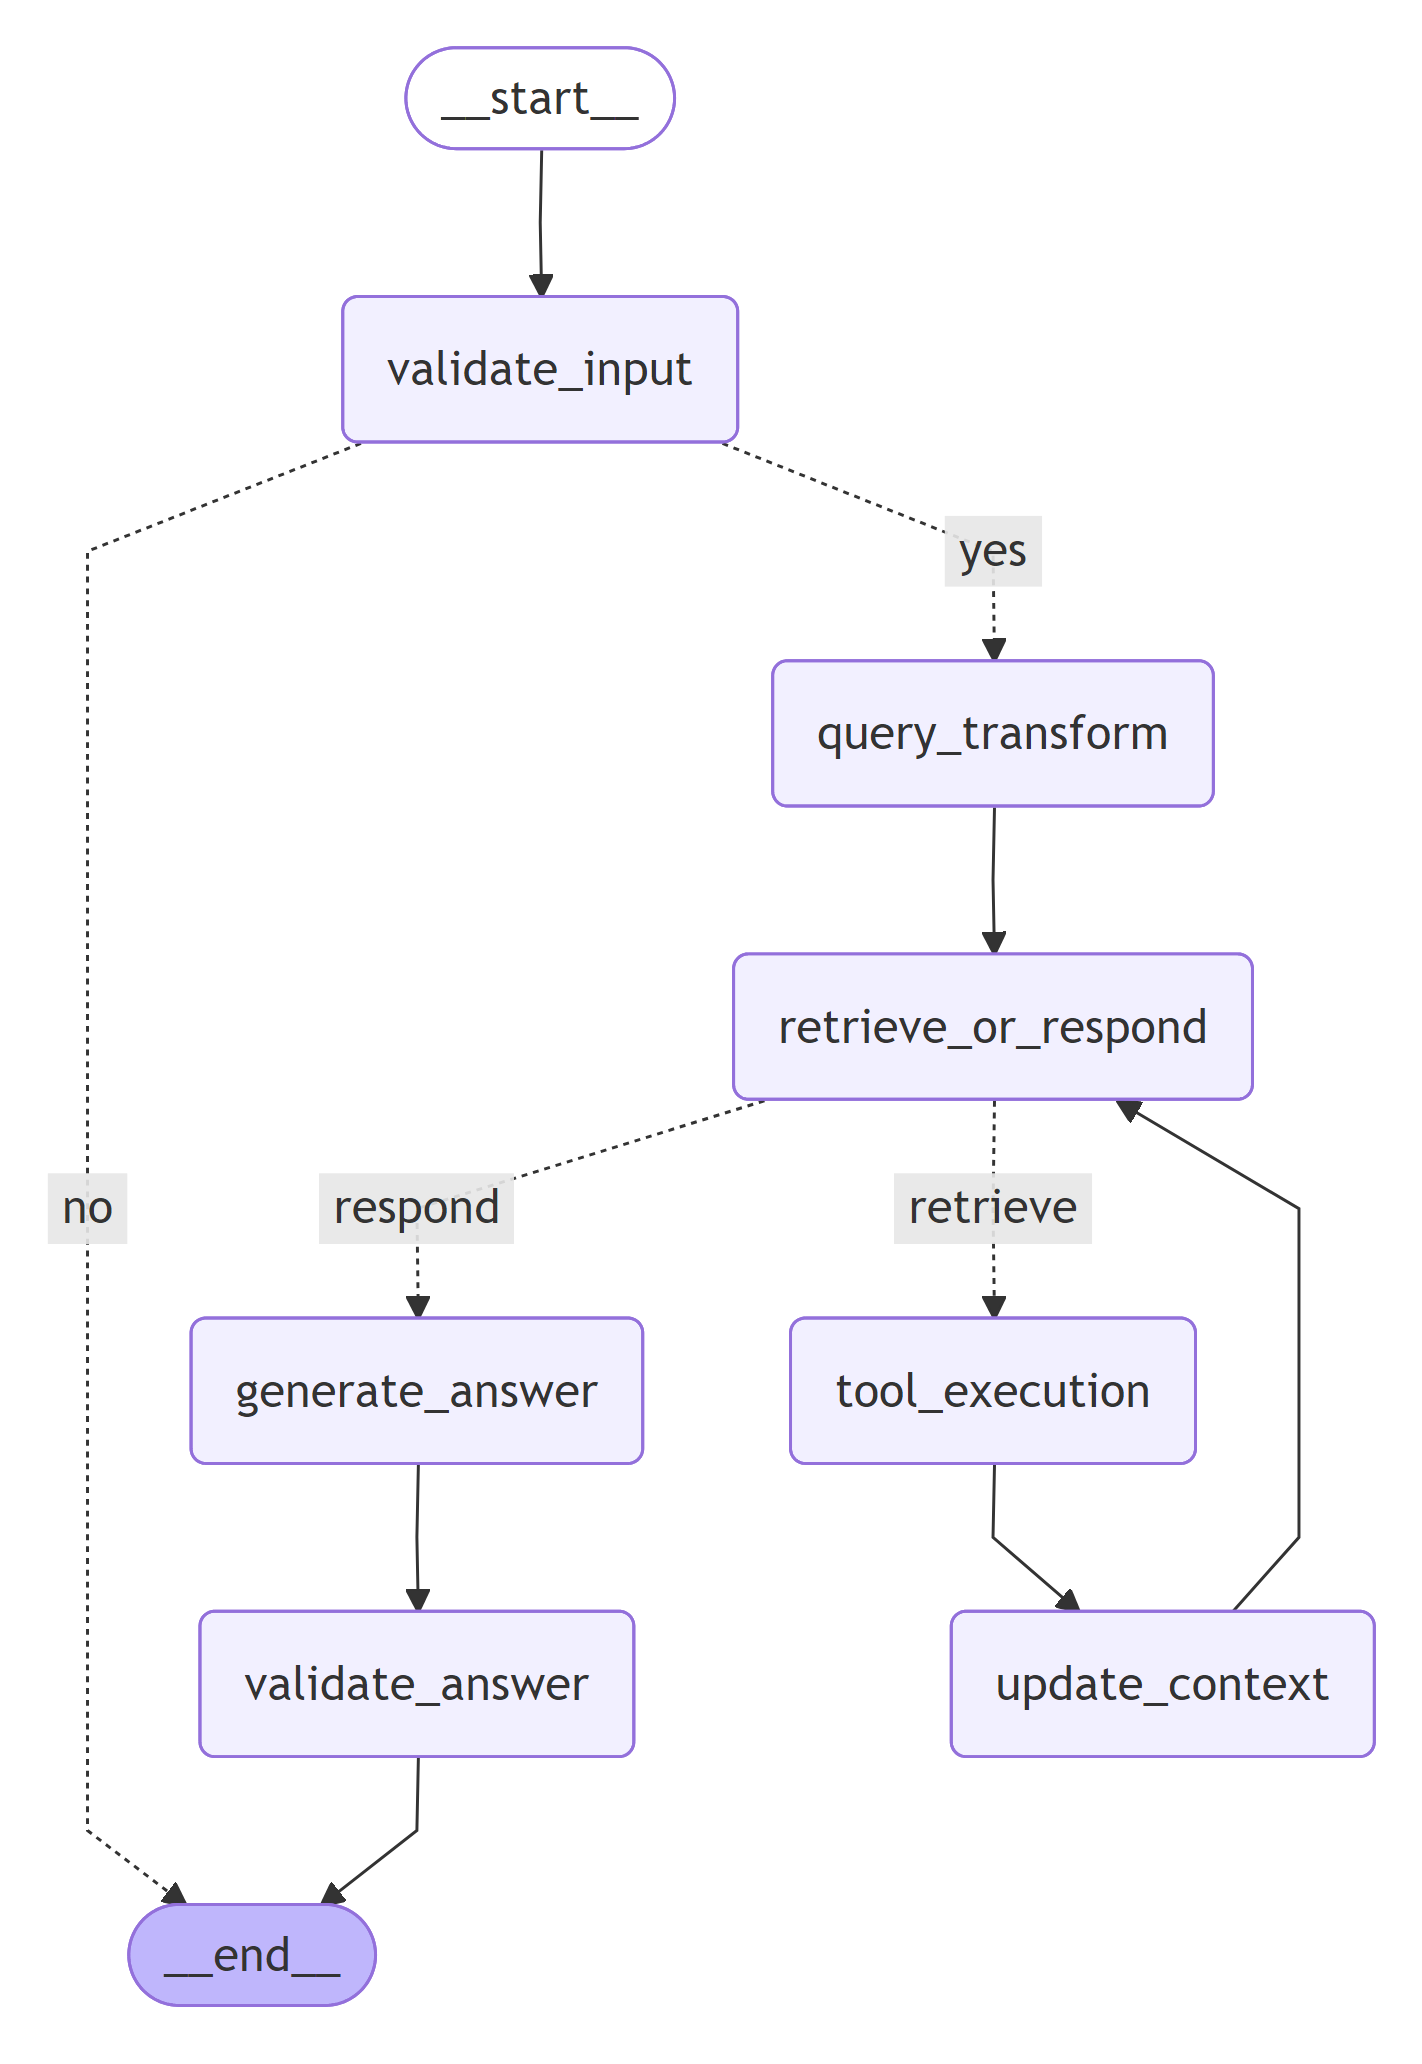
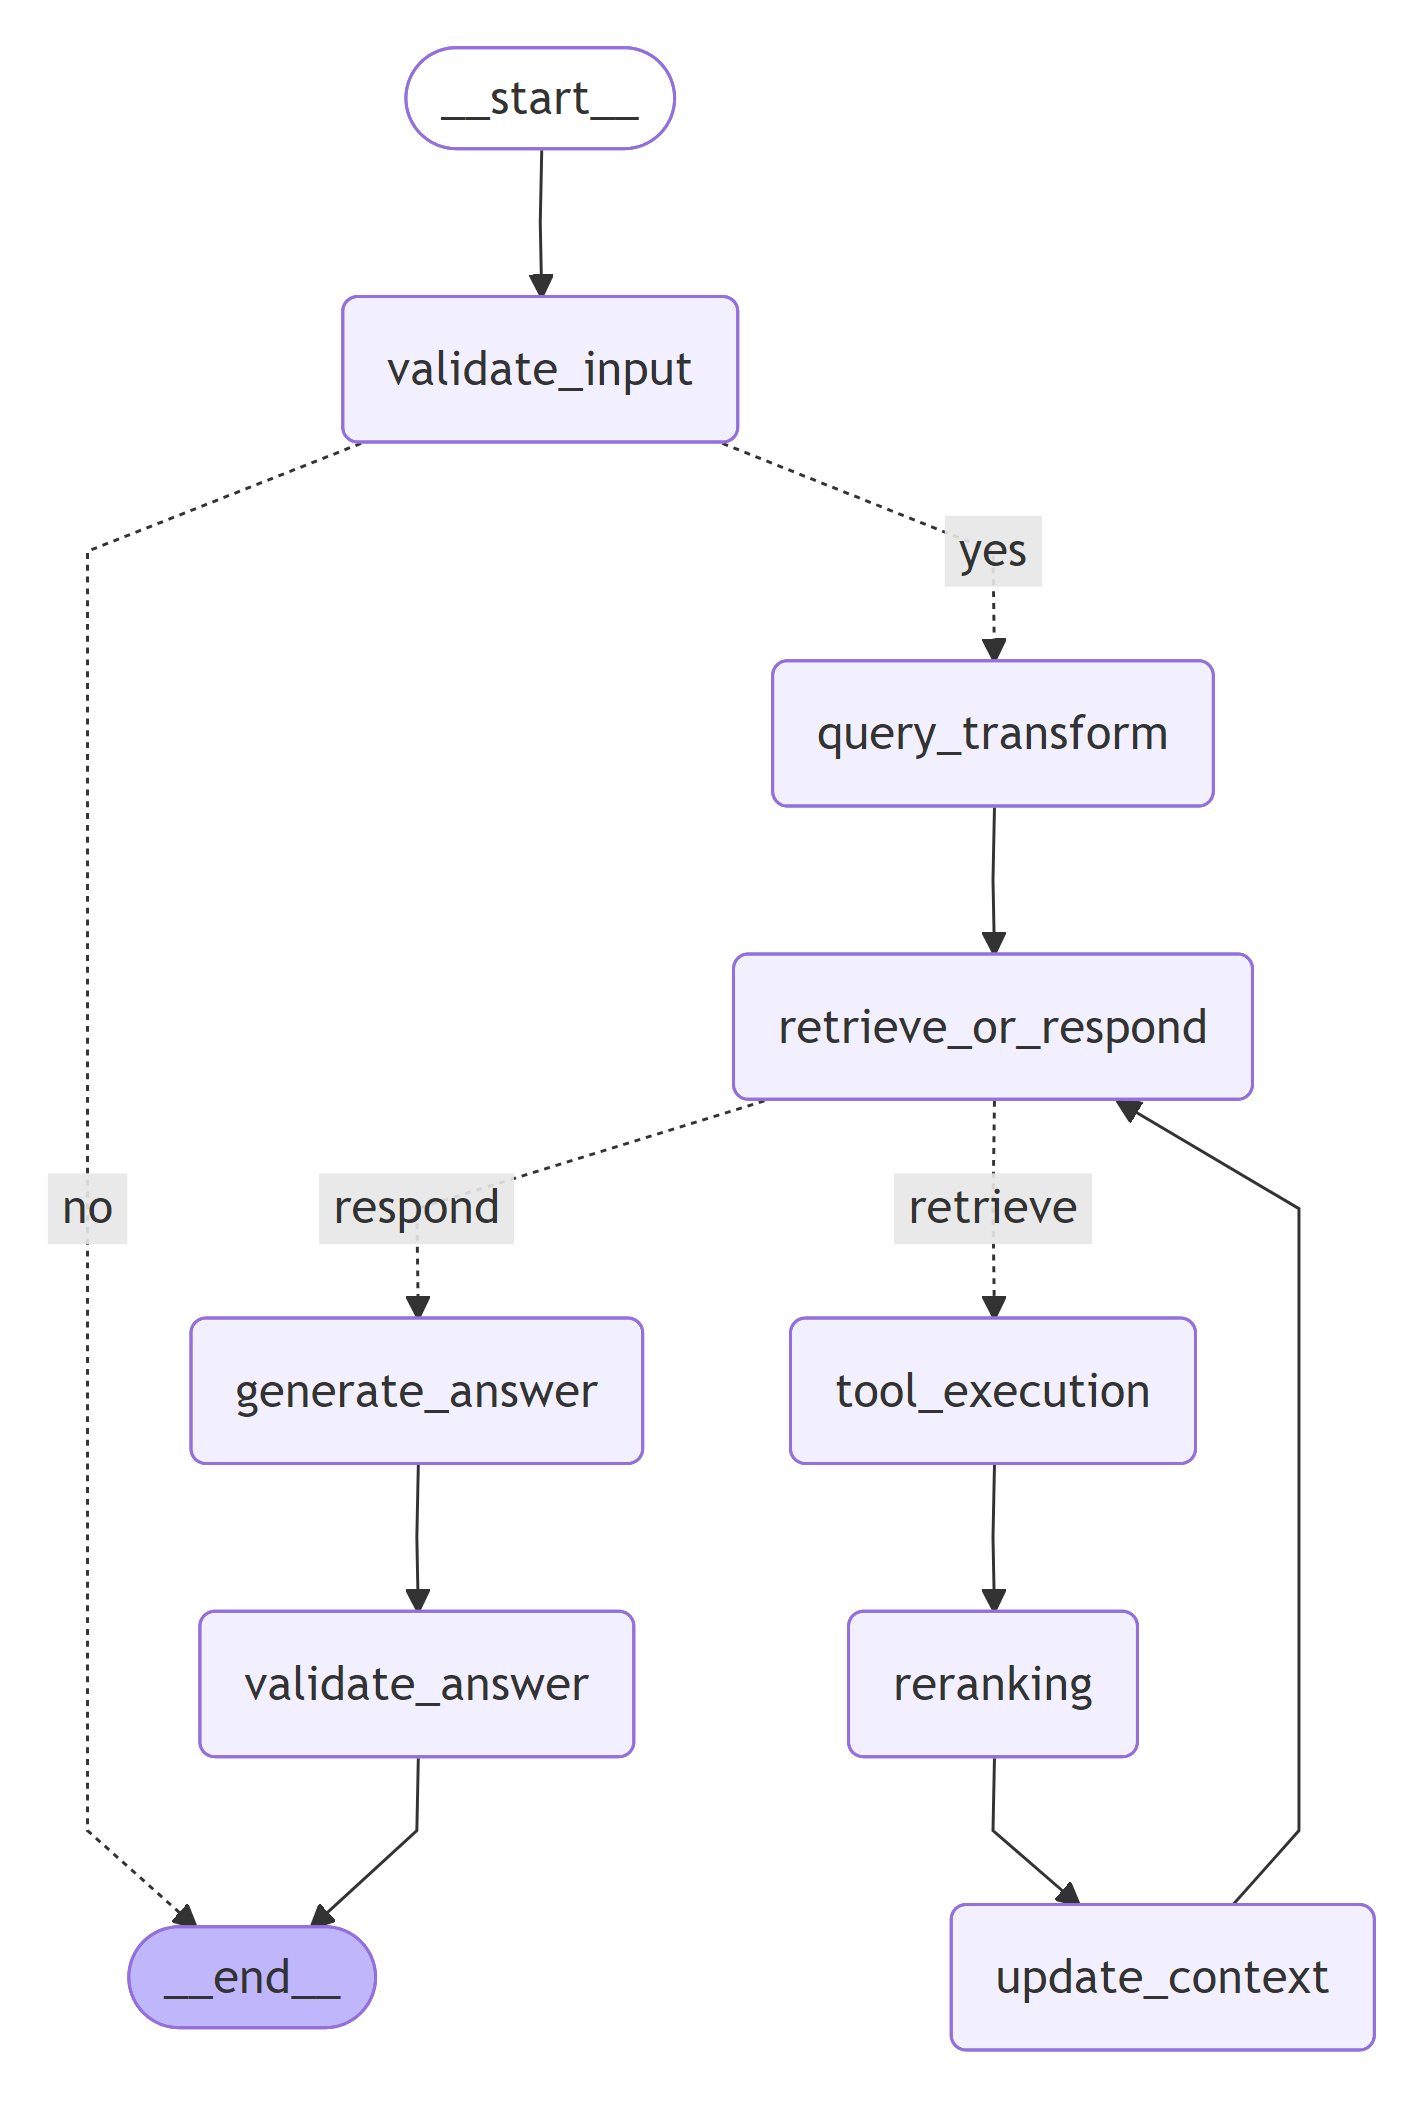
reranking

diff --git a/nodes/reranking.py b/nodes/reranking.py
@@ -1,0 +1,57 @@
+from langchain_core.language_models.chat_models import BaseChatModel
+from pydantic import BaseModel, Field
+from utils.state import AgentState
+from typing import List
+from langchain.prompts import PromptTemplate
+import numpy as np
+from langchain_core.messages import AIMessage
+
+# class Grade(BaseModel):
+#     score: float = Field(description="A score between 0 and 1, that measure how much a chunk is related to a user's question")
+
+class Reranking:
+
+    def __init__(self, llm: BaseChatModel, strategies: List[str], weights: List[float], prompts: dict[str, str]):
+        self._llm = llm
+        self._prompts = prompts
+        self._strategies = strategies
+        self._weights = weights
+
+    def _calculate_semantic_score(self, question: str, chunks: List[str]):
+        scores = []
+        prompt_template = self._prompts.get("reranking")
+        if not prompt_template:
+            raise Exception("Reranking prompt not Found")
+        
+        for chunk in chunks:
+            prompt = PromptTemplate.from_template(prompt_template).invoke({"question": question, "chunk": chunk})
+            grade = self._llm.invoke(prompt).content
+            try:
+                scores.append(float(grade))
+            except:
+                scores.append(0)
+        
+        return scores
+
+    def rerank(self, state: AgentState) -> AgentState:
+        question = state["original_question"]
+        chunks = state["messages"][-1].content.split("\n\n")
+        scores_per_strategy = []
+
+        for strategy in self._strategies:
+            if strategy == "semantic":
+                scores_per_strategy.append(self._calculate_semantic_score(question, chunks))
+
+        matrix = np.array(scores_per_strategy)
+        weights = np.array(self._weights)
+
+        if weights.sum() != 1:
+            raise Exception("reranking weights must sum to 1")
+
+        final_score = np.average(matrix, axis=0, weights=weights).tolist()
+        
+        state["messages"].append(AIMessage(f"reranking score: {final_score}"))
+        state["reranking_score"] = final_score
+        state["chunks"] = chunks
+        
+        return state

diff --git a/utils/processing.py b/utils/processing.py
@@ -29,17 +29,17 @@ def stream_response(agent: CompiledStateGraph[AgentState], user_query: str):
 
     debug = os.getenv("DEBUG", "false")
 
-    for event in agent.stream({"messages": [HumanMessage(user_query)], "question": user_query, "context": "", "original_question": user_query}):
+    for event in agent.stream(AgentState.create(messages=[HumanMessage(user_query)], question=user_query)):
         for key, value in event.items():
             print("\nSTEP:", key)
-            value["messages"][-1].pretty_print()
+            last_msg =  value["messages"][-1]
+            last_msg.pretty_print()
             if debug == "true":
-                if "question" in value:
-                    question = value["question"]
-                    print(f"\nQuestion: {question}")
-                if "original_question" in value:
-                    original_question = value["original_question"]
-                    print(f"\nOriginal Question: {original_question}")
-                if "context" in value:
+                if last_msg.type != "tool":
+                    print(f"Question: {value["question"]}")
+                    print(f"Original Question: {value["original_question"]}")
                     context = (value["context"][:100] + "...") if value["context"] else ""
                     print(f"Context: {context}")
+                    print(f"Reranking score: {value["reranking_score"]}")
+                    chunks = (str(value["chunks"])[:100] + "...]") if value["chunks"] else []
+                    print(f"Chunks: {chunks}")

diff --git a/utils/agent.py b/utils/agent.py
@@ -10,6 +10,7 @@ from utils.llm import LLMModel
 from nodes.update_context import update_context
 from nodes.answer import GenerateAnswer
 from nodes.output_validation import AnswerValidation
+from nodes.reranking import Reranking
 
 def build_agent(app_config, prompts):
 
@@ -25,6 +26,7 @@ def build_agent(app_config, prompts):
     graph.add_node("query_transform", QueryTransform(app_config["query_transform"], app_config["query_transform_params"], llm, prompts).transform)
     graph.add_node("retrieve_or_respond", ToolCalling(llm, prompts["retrieve_respond"], tools).choose)
     graph.add_node("tool_execution", ToolNode(tools))
+    graph.add_node("reranking", Reranking(llm, app_config["reranking_strategies"], app_config["reranking_weights"] ,prompts).rerank)
     graph.add_node("update_context", update_context)
     graph.add_node("generate_answer", GenerateAnswer(llm, prompts["output"]).generate_answer)
     graph.add_node("validate_answer", AnswerValidation(llm, prompts["output_check"]).validate)
@@ -47,7 +49,8 @@ def build_agent(app_config, prompts):
             "respond": "generate_answer"
         }
     )
-    graph.add_edge("tool_execution", "update_context")
+    graph.add_edge("tool_execution", "reranking")
+    graph.add_edge("reranking", "update_context")
     graph.add_edge("update_context", "retrieve_or_respond")
     graph.add_edge("generate_answer", "validate_answer")
     graph.add_edge("validate_answer", END)

diff --git a/utils/state.py b/utils/state.py
@@ -6,4 +6,17 @@ class AgentState(TypedDict):
     messages: Annotated[List[AnyMessage], add_messages]
     question: str
     context: str
+    chunks: List[str]
     original_question: str
+    reranking_score: List[float]
+
+    @classmethod
+    def create(cls, messages=[], question=""):
+        return AgentState(
+            messages=messages, 
+            question=question,
+            context="",
+            chunks=[],
+            original_question=question,
+            reranking_score=[]
+        )

diff --git a/nodes/query_transformation.py b/nodes/query_transformation.py
@@ -27,7 +27,7 @@ class QueryTransform:
 
         prompt = PromptTemplate.from_template(self._prompt).invoke({"max_char": self._max_char, "question": question})
 
-        rewritten_question = self._llm.invoke(prompt).content
+        rewritten_question = self._llm.invoke(prompt).content.strip()
         state["messages"].append(AIMessage(f"\"{question}\" -> {rewritten_question}"))
         state["question"] = rewritten_question
         return state

diff --git a/nodes/update_context.py b/nodes/update_context.py
@@ -3,8 +3,7 @@ from langchain_core.messages import AIMessage
 
 def update_context(state: AgentState):
 
-    last_msg = state['messages'][-1]
     state['messages'].append(AIMessage("Context Updated"))
-    state['context'] = last_msg.content
+    state['context'] = "\n\n".join(state['chunks'])
 
     return state
